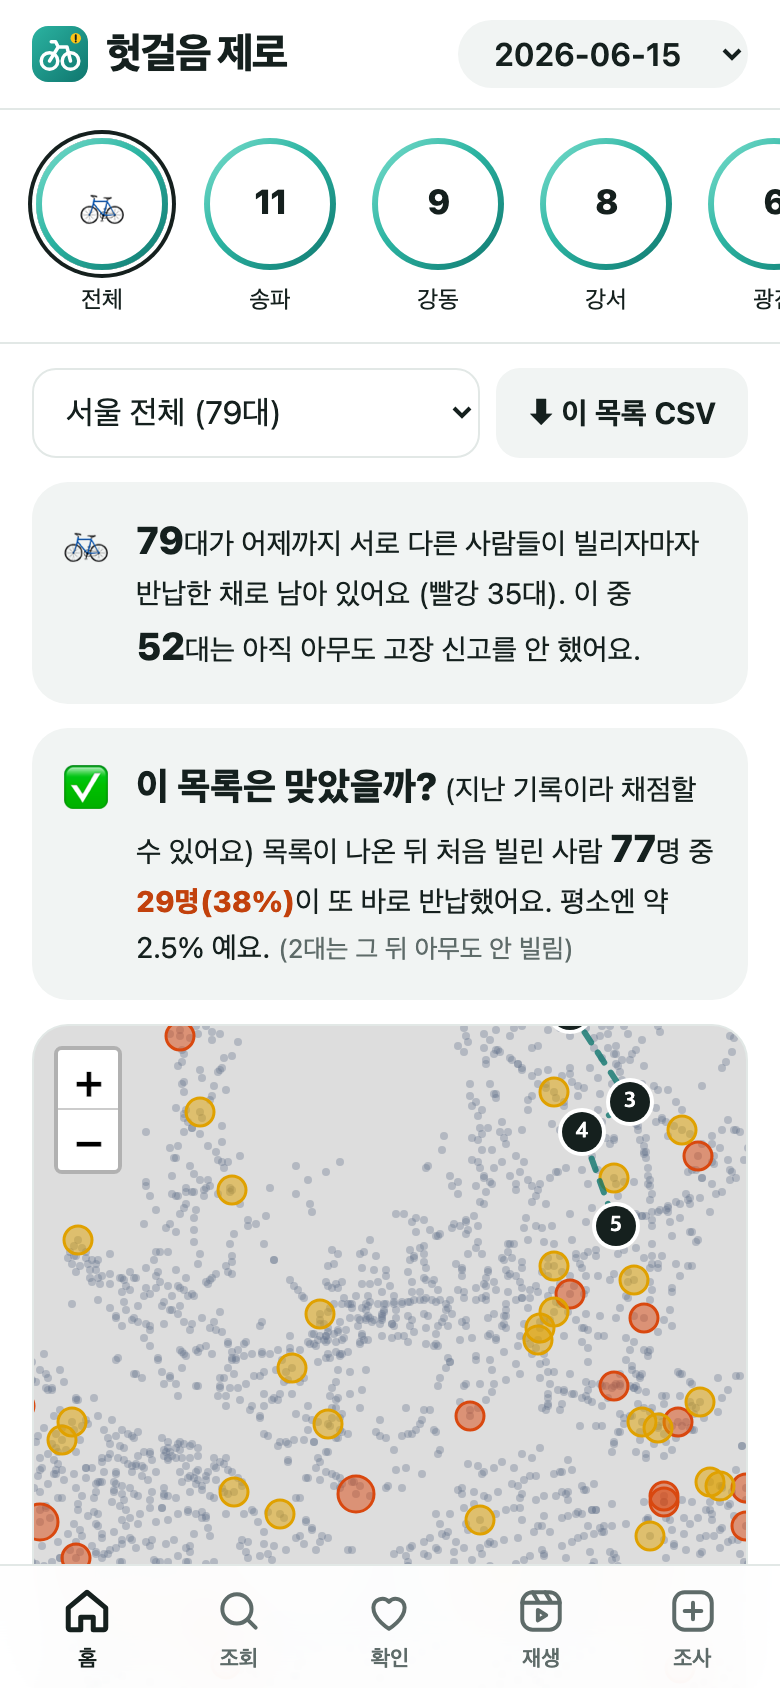
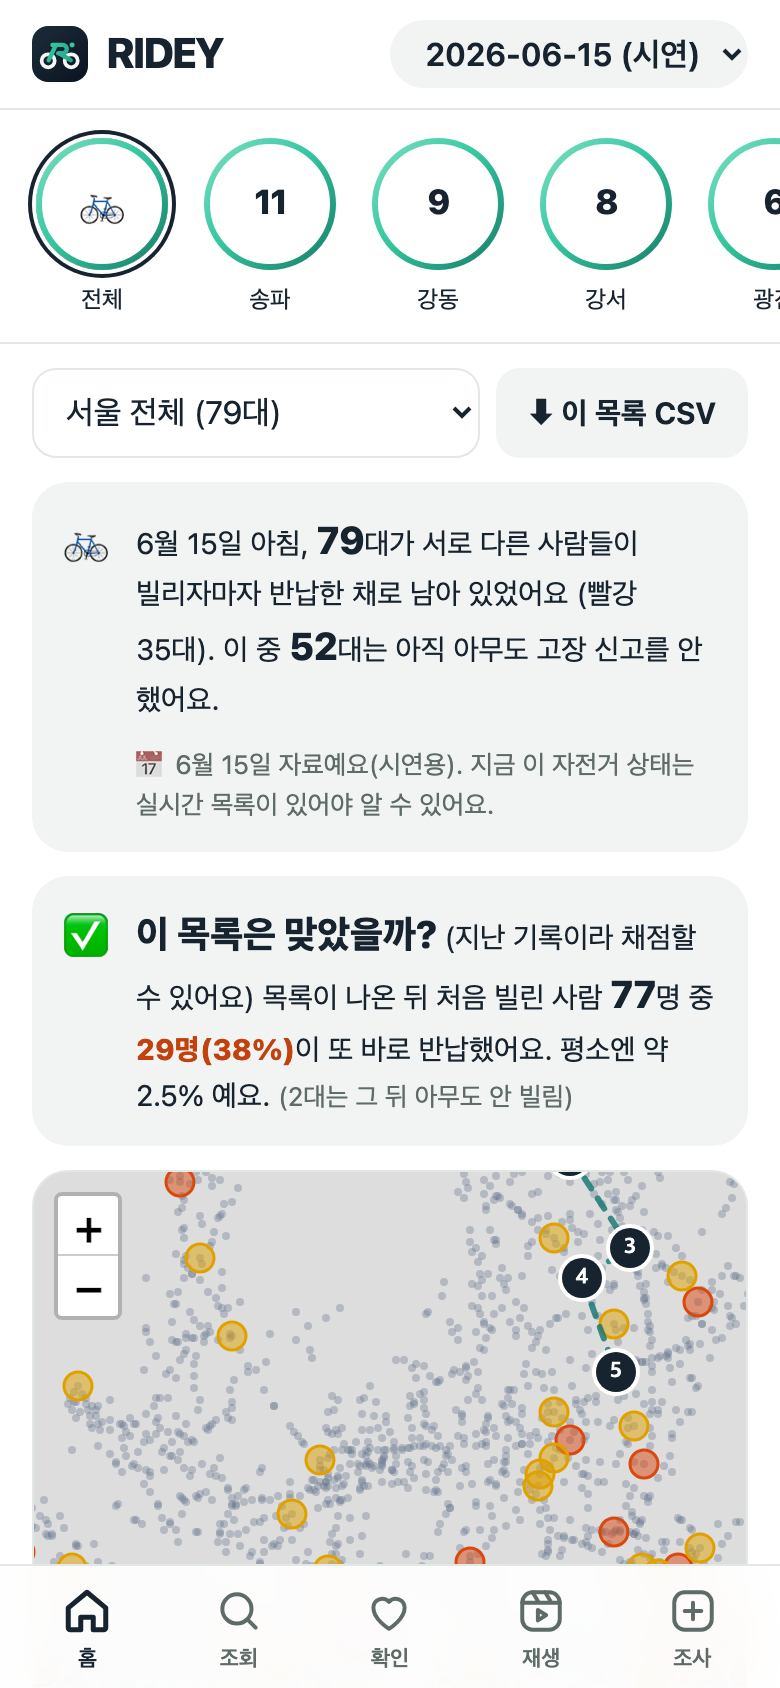
실시간 채점 첫 100건: 경보 뒤 다음 사람 108명 중 49명(45%, 95% 36~55%)이 또 바로 반납 — 사이트에 카드(클라우드 DB 에서 바로 읽음), README·PLAN·진행 기록(0.14.0). 사이트에 \~ 가 그대로 보이던 것 고침

Changed region(s): [[0.0308, 0.3081, 0.9846, 0.9242], [0.0308, 0.0, 0.3692, 0.0616], [0.5538, 0.0, 0.8923, 0.0616]]

diff --git a/site/index.html b/site/index.html
@@ -230,6 +230,12 @@
           </table>
           <p class="muted small" style="margin:16px 0 0">→ 파일로 잰 숫자가 실시간에도 그대로 섭니다. 처음 연 날 아침, 서울에선 82대가 서로 다른 사람들이 바로 반납한 채 서 있었고, 한 대는 <b style="color:var(--ink)">21명</b>이 연달아 포기한 자전거였습니다.</p>
         </div>
+        <div class="card white livescore" id="livescore">
+          <span class="pill">스스로 채점 중</span>
+          <h3 style="margin-top:16px">실시간 경보는 맞았을까?</h3>
+          <p class="big"><b id="ls-pct">45%</b><span>경보 뒤 처음 빌린 다른 사람 <b id="ls-n">108</b>명 중 <b id="ls-k">49</b>명이 또 바로 반납</span></p>
+          <p class="muted small" style="margin:10px 0 0">평소 자전거는 2.5%, 지난 기록(1·3·6월)으로 같은 방식은 32~34%. 95% 범위 <span id="ls-ci">36~55%</span> · 채점을 기다리는 경보 <span id="ls-w">69</span>건 · <span id="ls-at">9월 27일 18:15</span> 기준 (2026년 9월 26일부터 쌓는 중, 5분마다 새로 매김)</p>
+        </div>
         <p class="note">솔직한 기록: 처음엔 실시간 대여소 <b>대수</b>만 보고 "공개 자료로는 실시간이 안 된다"(정밀도 0.2~1.7%)고 결론 냈다가, 자전거별 대여이력 API 를 찾고 뒤집었습니다.</p>
       </div>
     </div>
@@ -311,7 +317,7 @@
           <p class="sub">신고 대신 흔적을 읽는 곳이면 어디든</p>
           <ul>
             <li><b>다른 도시 공공자전거 <em class="ev m">대전 검증</em></b><span>대전 타슈에 서울 기준을 그대로 적용해 확인했습니다(다음 사람 41.6~43.6% 포기). 세종 어울링·창원 누비자도 대여기록만 있으면 됩니다.</span></li>
-            <li><b>전기차 운전자 <em class="ev w">재는 중</em></b><span>앱엔 '사용 가능' 인데 실제로는 안 되는 충전기. 서울 충전기를 모으는 중입니다. 먼저 고장이 아닌 기록(0초 충전, 사업자 전체가 짧게 찍히는 곳)을 걸러야 했고, 걸러 낸 뒤 3분 안에 끊긴 충전은 약 3\~4% 입니다. 연쇄가 다음 충전을 예고하는지는 1\~2주 모아 판정합니다.</span></li>
+            <li><b>전기차 운전자 <em class="ev w">재는 중</em></b><span>앱엔 '사용 가능' 인데 실제로는 안 되는 충전기. 서울 충전기를 모으는 중입니다. 먼저 고장이 아닌 기록(0초 충전, 사업자 전체가 짧게 찍히는 곳)을 걸러야 했고, 걸러 낸 뒤 3분 안에 끊긴 충전은 약 3~4% 입니다. 연쇄가 다음 충전을 예고하는지는 1~2주 모아 판정합니다.</span></li>
             <li><b>현장 확인(구조대) <em class="ev w">검증 도구</em></b><span>지나가다 3초 보고 고장 종류를 누릅니다. 도움을 받는 사람이라기보다, 경보가 진짜 고장이었는지 사람 눈으로 확인하는 역할입니다.</span></li>
           </ul>
         </div>
@@ -400,7 +406,7 @@
       <div class="reveal">
         <details><summary>고장 신고랑 뭐가 다른가요?</summary><p>신고는 사람이 앱을 열고 적어야 해서 늦고 드뭅니다. 서로 다른 사람의 연속 헛대여 중 절반 넘게(49~61%)는 7일이 지나도 신고가 없었습니다. RIDEY는 이미 남아 있는 대여기록을 읽으니 아무도 따로 할 일이 없습니다.</p></details>
         <details><summary>정확도가 왜 두 가지인가요?</summary><p>경보 한 건마다 그 뒤 처음 빌린 다른 사람만 세면 32~34%, 경보가 켜져 있는 동안 빌린 모든 사람을 세면 52~60% 가 또 헛걸음했습니다. 뒤의 숫자는 21명 연속 같은 긴 연쇄가 크게 들어갑니다. 평소엔 2.5% 라서, 어느 쪽이든 10배가 넘습니다.</p></details>
-        <details><summary>정말 실시간인가요?</summary><p>네. 서울 대여이력 API 는 반납된 기록을 바로 줍니다(2026년 9월 25일 실측 지연 약 0분). 같은 날을 월별 공개 파일과 비교해 대여·헛대여·아침 목록이 모두 같다는 것도 확인했습니다. 클라우드 DB 가 5분마다 스스로 판단하고(맥이 꺼져 있어도), 경보가 맞았는지도 스스로 채점합니다. 다만 기록이 늘 고르게 오지는 않습니다 — 추석 당일(9월 25일) 14시부터는 평소의 2\~5% 만 올라왔고, 그럴 땐 앱에 '자료 지연' 을 띄우고 그 시간이 낀 경보는 채점하지 않습니다.</p></details>
+        <details><summary>정말 실시간인가요?</summary><p>네. 서울 대여이력 API 는 반납된 기록을 바로 줍니다(2026년 9월 25일 실측 지연 약 0분). 같은 날을 월별 공개 파일과 비교해 대여·헛대여·아침 목록이 모두 같다는 것도 확인했습니다. 클라우드 DB 가 5분마다 스스로 판단하고(맥이 꺼져 있어도), 경보가 맞았는지도 스스로 채점합니다. 다만 기록이 늘 고르게 오지는 않습니다 — 추석 당일(9월 25일) 14시부터는 평소의 2~5% 만 올라왔고, 그럴 땐 앱에 '자료 지연' 을 띄우고 그 시간이 낀 경보는 채점하지 않습니다.</p></details>
         <details><summary>다른 도시에서도 되나요?</summary><p>대전 타슈 2025년 5·10월 기록에 서울 기준을 그대로 적용해 확인했습니다(두 사람이 포기한 뒤 다음 사람 41.6~43.6%). 대여기록만 있으면 어느 공공자전거에도 쓸 수 있습니다.</p></details>
         <details><summary>자전거 말고도 쓸 수 있나요?</summary><p>같은 생각을 전기차 충전기에 옮기고 있습니다. 꽂았는데 바로 끊긴 충전이 서로 다른 사람에게서 이어지면, 앱에선 '사용 가능' 인데 실제론 고장인 충전기일 가능성이 큽니다. 서울 충전기 상태를 5분마다 모으는 중입니다. 첫날 배운 것: 사업자마다 기록 방식이 달라, 충전 중인데도 0초 충전을 남기는 곳이 있습니다. 이런 기록을 먼저 거르지 않으면 고장이 훨씬 많아 보입니다.</p></details>
         <details><summary>개인정보는요?</summary><p>이름·연락처·이동 경로는 쓰지 않습니다. 공개 자료에 있는 생년·성별은 같은 사람의 재시도를 거르는 데만 쓰고, 서버는 9일 지난 기록을 지웁니다. 이 정보가 없어도 정밀도 차이는 0.2%p 입니다.</p></details>
@@ -504,6 +510,22 @@
   }
   brand();
   $("#brand").addEventListener("click", brand);
+
+  // 실시간 채점 — 클라우드 DB(Supabase) 공개 뷰에서 지금 숫자로 바꿔 끼움. 못 받으면 적어 둔 숫자 그대로
+  (async () => {
+    try {
+      const r = await fetch("https://iqvquwvoljzuvdgtbpnu.supabase.co/rest/v1/live_snapshot?select=at,score:body->score&order=at.desc&limit=1",
+        { headers: { apikey: "sb_publishable_YFBKlBvyPFAhBpLdS3o8_A_xIeUmTVE" } });
+      const [row] = await r.json(), sc = row && row.score;
+      if (!sc || !(sc.scored >= 100)) return;
+      const n = sc.scored, k = sc.next_rider_dud, p = k / n, z = 1.96, d = 1 + z * z / n;
+      const c = (p + z * z / (2 * n)) / d, m = z * Math.sqrt(p * (1 - p) / n + z * z / (4 * n * n)) / d;
+      const at = new Date(row.at + "+09:00");
+      $("#ls-pct").textContent = Math.round(p * 100) + "%"; $("#ls-n").textContent = n.toLocaleString("ko-KR"); $("#ls-k").textContent = k.toLocaleString("ko-KR");
+      $("#ls-ci").textContent = `${Math.round((c - m) * 100)}~${Math.round((c + m) * 100)}%`; $("#ls-w").textContent = sc.waiting.toLocaleString("ko-KR");
+      $("#ls-at").textContent = `${at.getMonth() + 1}월 ${at.getDate()}일 ${String(at.getHours()).padStart(2, "0")}:${String(at.getMinutes()).padStart(2, "0")}`;
+    } catch (e) { /* 적어 둔 숫자 그대로 */ }
+  })();
 
   // 나타나기
   const io = new IntersectionObserver((es) => es.forEach((e) => { if (e.isIntersecting) { e.target.classList.add("in"); io.unobserve(e.target); } }), { threshold: 0.12 });

diff --git a/site/releases.html b/site/releases.html
@@ -36,6 +36,12 @@
 <main class="doc">
 <h1>진행 기록</h1>
 <p class="lede">RIDEY 가 달라진 점을 모았습니다. 자세한 측정과 실패 기록은 <a href="https://github.com/zmflm0110/ridey/blob/master/PLAN.md">PLAN.md</a> 의 진행 기록에 있습니다.</p>
+<h2>0.14.0<small>2026-09-27</small></h2>
+<ul>
+<li><b>로고와 색을 팀 초안 로고에 맞췄습니다.</b> 자전거 R 마크 + RIDEY 글자(Y 의 민트 체크), 색은 민트·청록·남색. 사이트 첫 화면은 자전거가 달려와 서면 R·I·D·E·Y 가 튀어나오고 체크가 그어진 뒤 'Ready before you ride.' 를 타자로 씁니다. 앱 아이콘(웹·아이폰·안드로이드)과 안드로이드 시작 화면, 앱 색도 같게 바꿨습니다.</li>
+<li><b>실시간 채점이 처음으로 100건을 넘었습니다.</b> 경보 뒤 처음 빌린 다른 사람 108명 중 49명(45%, 95% 범위 36~55%)이 또 바로 반납했습니다. 평소 자전거는 2.5%, 지난 기록으로 같은 방식은 32~34% 입니다. 주말 이틀(9/26~27) 기록이라 평일까지 계속 쌓습니다. 사이트의 숫자는 클라우드 DB 에서 바로 읽어 옵니다.</li>
+<li>사이트 몇 곳에 <code>~</code> 가 그대로 보이던 것을 고쳤습니다.</li>
+</ul>
 <h2>0.13.0<small>2026-09-27</small></h2>
 <ul>
 <li><b>이름을 RIDEY 로 바꿨습니다</b>(팀 결정). 앱 이름·홈 화면·시작 화면·사이트·문서·제출 파일 이름이 모두 RIDEY 입니다. 앱 안쪽 식별자(kr.bikedoctor.heotgeoleumzero)는 그대로 두어 이미 깐 앱이 그대로 업데이트됩니다.</li>

diff --git a/site/style.css b/site/style.css
@@ -424,3 +424,10 @@ footer p { margin: 0; font-size: 13.5px; color: var(--muted); }
 .phone img { border-radius: 35px; }
 .agent, .band { border-radius: 32px; }
 @media (max-width: 600px) { .story-nav { justify-content: flex-start; gap: 12px; margin-top: 30px; } .story-nav a { width: 68px; } .story-nav .ring { width: 58px; height: 58px; } }
+
+/* 실시간 채점 카드 */
+.livescore { margin-top: 16px; }
+.livescore .big { display: flex; align-items: baseline; gap: 14px; margin: 12px 0 0; flex-wrap: wrap; }
+.livescore .big > b { font-family: var(--font-brand); font-size: 52px; font-weight: 800; line-height: 1; background: var(--wgrad); -webkit-background-clip: text; background-clip: text; color: transparent; font-variant-numeric: tabular-nums; }
+.livescore .big span { color: var(--muted); font-size: 15.5px; }
+.livescore .big span b { color: var(--ink); }

diff --git a/PLAN.md b/PLAN.md
@@ -5,18 +5,17 @@
 근거(초안 단계, `~/ideas/drafts/04-bike-doctor`): 서로 다른 두 사람이 연달아 빌리자마자 반납한 자전거는 다음 사람도 34% 가 헛걸음(평소 2.5%, 약 14배).
 서울 1·3·6월 + 대전 타슈 5·10월 재현, 경보가 고장 신고보다 중앙값 20시간 먼저, 그 사이 평균 4.4명 헛걸음, 서울 하루 84\~223명 예방 가능.
 
-## 다시 시작할 때 (2026-09-26 17시 기준 — 맥 없이 도는 구조로 바꿈)
-- **돌고 있는 것 — 클라우드(맥 꺼져도 됨)**: GitHub Actions `cloud.yml` 10분마다 — 서울 API → DB(SQLite, `LIVE_STATE_KEY` 로 암호화해 Actions 캐시) → 경보·채점·06:10 아침 목록·충전기 상태
-  → `live-data` 가지(`data/live.json`, `data/ops/*.json`, `data/ev_validation.md`). 앱·웹앱은 여기를 **어디서든** 읽는다.
-  쓰기 DB = **Supabase** 프로젝트 `iqvquwvoljzuvdgtbpnu`(ap-southeast-1): `supabase/schema.sql` 적용됨 — rescue·survey 표(누구나 넣기만), checked 뷰(자전거별 확인 수만), 비공개 사진 저장소.
-  앱 키 = 공개 publishable 키(`web/cloud.js`, `Cloud.swift`). DB 비밀번호는 키체인 `supabase-db`. 조사 기록 내려받기: `server/supabase_export.py`.
-  저장소 비밀: `SEOUL_OPENAPI_KEY`, `DATAGOKR_KEY`, `LIVE_STATE_KEY`. 끄기: Actions → live → Disable.
-- **맥**: 실시간(`kr.bikedoctor.live`)·충전기(`ev`) 는 클라우드로 옮겨 끔(사용자 결정 2026-09-26). 웹 서버(8765)·아침 목록(06:10)은 남음(없어도 됨).
-- **확인**: `gh run list -w live -L 5` · 지금 목록 `curl -s https://raw.githubusercontent.com/zmflm0110/ridey/live-data/data/live.json | head -c 300`
+## 다시 시작할 때 (2026-09-27 18시 기준 — 핵심은 클라우드 DB 안에서 돈다)
+- **돌고 있는 것 — Supabase(맥·GitHub 없이)**: 프로젝트 `iqvquwvoljzuvdgtbpnu`(ap-southeast-1), `supabase/live.sql`. pg_cron `live-tick` 5분마다 — 서울 API(pg_net) → `live.rentals` → 지금 목록·경보·실시간 채점(`live.snapshot`), 06:10 뒤 아침 목록·어제 채점.
+  공개 뷰 `live_snapshot`·`ops_lists`·`ops_scores`(앱·웹앱·사이트가 publishable 키로 읽음). 쓰기 표 rescue·survey·사진(`supabase/schema.sql`). 서울 키는 Supabase Vault `seoul_openapi`. DB 비밀번호는 키체인 `supabase-db`.
+  확인: `psql … -c "select status from cron.job_run_details order by start_time desc limit 3"` (접속 문자열은 `tools/supabase_live_load.py` DSN). 파이썬과 맞춰 보기: `tools/supabase_live_load.py --parity`.
+- **GitHub Actions `cloud.yml`**(드문드문): 백업 live.json·`live-data` 가지·충전기 수집·Supabase 깨우기. 저장소 비밀 `SEOUL_OPENAPI_KEY`, `DATAGOKR_KEY`, `LIVE_STATE_KEY`.
+- **맥**: 실시간 서비스는 꺼 둠(사용자 결정 2026-09-26). 안드로이드 APK 는 `cd android-app && npm run release`(자바 = Homebrew openjdk@21).
+- **실시간 채점 (업데이트형)**: 9/27 18:15 첫 100건 넘음 — 108명 중 49명(45%, 95% 36\~55%). 주 1회 숫자 갱신(README·보고서; 사이트는 자동).
 - **다음에 할 일**
-  1. 사용자: 아이폰 케이블 연결 → 새 앱 설치(무료 계정이라 7일마다 다시). 목표 대회·마감, 이름·학교, 작품 이름 확정.
-  2. 업데이트형(사용자 2026-09-26 "100개 모으는 건 그 뒤 업데이트"): 클라우드가 실시간 채점·아침 목록 채점·충전기 연쇄를 쌓음 → 주 1회 숫자 갱신(보고서·사이트).
-  3. 사용자: 현장 조사 2주(앱 '현장 조사' → Supabase → `server/supabase_export.py` → `analysis/field_validation.py data/survey.csv live`).
+  1. 사용자: 9/30 참가 신청서(PDF, 서명) · 아이폰 케이블 연결 → 새 앱(아이콘 바뀜) 설치 · 10월 현장 조사 2주.
+  2. 시연 영상을 RIDEY 이름·새 로고로 다시 찍기(`tests/web/record_demo.js`) — 사용자 확인 뒤.
+  3. 사용자: 현장 조사(앱 '현장 조사' → Supabase → `server/supabase_export.py` → `analysis/field_validation.py data/survey.csv live`).
 
 ## 목표 대회 — 2026 디지털콘텐츠개발대회 (교내, 생활 부문) — 2026-09-26 확정
 - 심사(생활): **기획 25 · 개발 45 · 디자인 20 · 시연·발표 10**. 개인 또는 팀 1\~5인(팀원 변경 불가).

diff --git a/CHANGELOG.md b/CHANGELOG.md
@@ -2,6 +2,11 @@
 
 RIDEY 가 달라진 점을 모았습니다. 자세한 측정과 실패 기록은 [PLAN.md](PLAN.md) 의 진행 기록에 있습니다.
 
+## [0.14.0] - 2026-09-27
+- **로고와 색을 팀 초안 로고에 맞췄습니다.** 자전거 R 마크 + RIDEY 글자(Y 의 민트 체크), 색은 민트·청록·남색. 사이트 첫 화면은 자전거가 달려와 서면 R·I·D·E·Y 가 튀어나오고 체크가 그어진 뒤 'Ready before you ride.' 를 타자로 씁니다. 앱 아이콘(웹·아이폰·안드로이드)과 안드로이드 시작 화면, 앱 색도 같게 바꿨습니다.
+- **실시간 채점이 처음으로 100건을 넘었습니다.** 경보 뒤 처음 빌린 다른 사람 108명 중 49명(45%, 95% 범위 36\~55%)이 또 바로 반납했습니다. 평소 자전거는 2.5%, 지난 기록으로 같은 방식은 32\~34% 입니다. 주말 이틀(9/26\~27) 기록이라 평일까지 계속 쌓습니다. 사이트의 숫자는 클라우드 DB 에서 바로 읽어 옵니다.
+- 사이트 몇 곳에 `\~` 가 그대로 보이던 것을 고쳤습니다.
+
 ## [0.13.0] - 2026-09-27
 - **이름을 RIDEY 로 바꿨습니다**(팀 결정). 앱 이름·홈 화면·시작 화면·사이트·문서·제출 파일 이름이 모두 RIDEY 입니다. 앱 안쪽 식별자(kr.bikedoctor.heotgeoleumzero)는 그대로 두어 이미 깐 앱이 그대로 업데이트됩니다.
 
